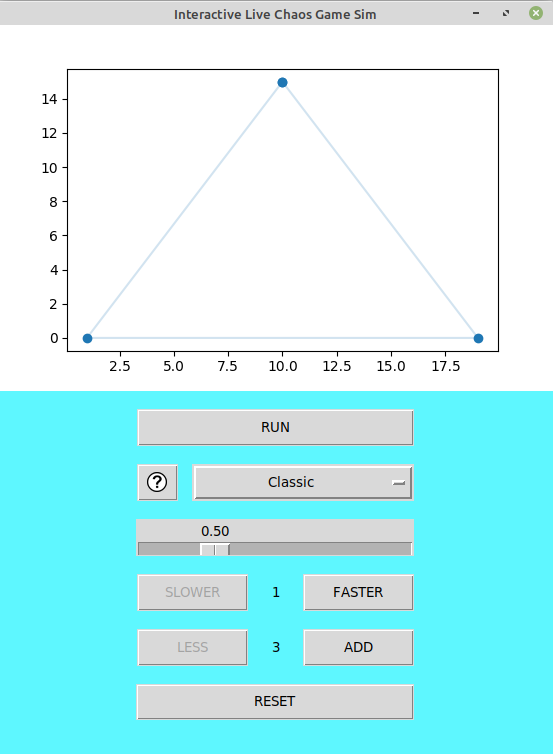
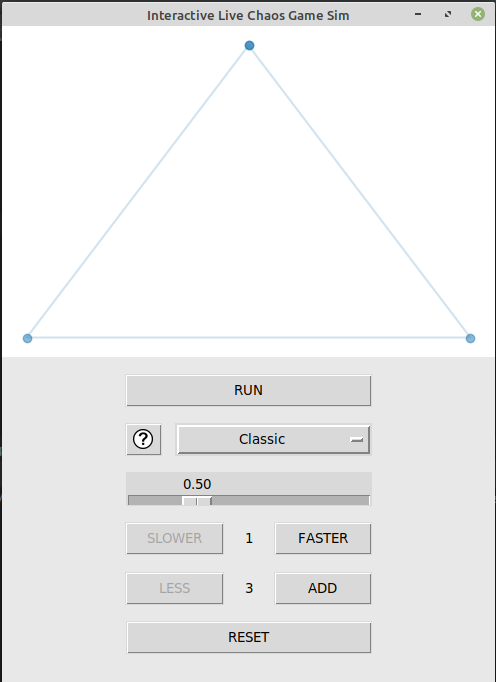
Polished with blitting

diff --git a/IChaosGame.py b/IChaosGame.py
@@ -10,22 +10,58 @@ import Rules as Rules
 
 class Controller:
     def __init__(self):
-        self.canvas = None
         self.simulation = Simulation()
         self.main_view = MainView(simulation=self.simulation, controller=self)
+        self.animation_reset = False
         self.figure, self.ax = self.main_view.initialize_figure()
-        self.anime = FuncAnimation(self.figure, self.animate_figure, interval=500)
+        self.anime = FuncAnimation(self.figure, self.animate_figure,
+                                   init_func=self.init_animate_figure, blit=True, interval=500)
         self.main_view.mainloop()
 
     def animate_figure(self, event):
+        chaos_point_cords = self.simulation.chaos_points.get_point_cords()
+        shape_cords = self.simulation.shape.get_point_cords()
+        if self.animation_reset >= 100:
+            self.shape_outline = self.ax.plot(*shape_cords, alpha=0.2)
+            self.shape_points = self.ax.scatter(*shape_cords, alpha=0.5)
+            self.scat = self.ax.scatter(*chaos_point_cords, s=(500/((len(chaos_point_cords[0]) // 3) + 1)))
+            self.animation_reset = 0
+
+        delta_chaos_point_cords = []
         for i in range(self.simulation.speed):
             self.simulation.iterate()
+            try:
+                new_point = (chaos_point_cords[0][-1],
+                             chaos_point_cords[1][-1])
+            except IndexError:
+                new_point = False
+            if new_point:
+                delta_chaos_point_cords.append(new_point)
+        if delta_chaos_point_cords:
+            updated_list_of_cords = list(self.scat.get_offsets()) + delta_chaos_point_cords
+            self.scat.set_offsets(updated_list_of_cords)
+            self.scat.set_sizes([(500/((len(updated_list_of_cords) // 3) + 1))
+                                 for _ in range(len(updated_list_of_cords))])
+
+        try:
+            self.ax.set_xlim(min(chaos_point_cords[0] + shape_cords[0]) - 1, max(chaos_point_cords[0] + shape_cords[0]) + 1)
+            self.ax.set_ylim(min(chaos_point_cords[1] + shape_cords[1]) - 1, max(chaos_point_cords[1] + shape_cords[1]) + 1)
+        except ValueError:
+            pass
+
+        self.artists = (self.shape_outline[0], self.shape_points, self.scat)
+        return self.artists
+
+
+    def init_animate_figure(self):
         self.ax.clear()
         shape_cords = self.simulation.shape.get_point_cords()
-        self.ax.plot(*shape_cords, alpha=0.2)
-        self.ax.scatter(*shape_cords)
+        self.shape_outline = self.ax.plot(*shape_cords, alpha=0.2)
+        self.shape_points = self.ax.scatter(*shape_cords, alpha=0.5)
         chaos_point_cords = self.simulation.chaos_points.get_point_cords()
-        self.ax.scatter(*chaos_point_cords, s=500/((len(chaos_point_cords[0]) // 3) + 1))
+        self.scat = self.ax.scatter(*chaos_point_cords, s=(500/((len(chaos_point_cords[0]) // 3) + 1)))
+        self.artists = (self.shape_outline[0], self.shape_points, self.scat)
+        return self.artists
 
     def change_speed(self, speed: int):
         speed_equivalent = [500, 250, 100, 10, 1]
@@ -46,10 +82,12 @@ class Controller:
     def add_shape_point(self):
         self.simulation.add_shape_point()
         self.update_shape()
+        self.animation_reset = 100
 
     def less_shape_point(self):
         self.simulation.less_shape_point()
         self.update_shape()
+        self.animation_reset = 100
 
     def update_shape(self):
         self.main_view.update_shape_label_text()
@@ -59,10 +97,12 @@ class Controller:
         rule = self.main_view.controls_view.rule
         rule_no = self.main_view.controls_view.rules_name_list.index(rule.get())
         self.change_rule(rule_no)
+        self.animation_reset = 100
 
     def distance_trace_callback(self, *args, **kwargs):
         distance = self.main_view.controls_view.distance.get()
         self.simulation.change_jump_distance(distance)
+        self.animation_reset = 100
 
     def change_rule(self, rule_no: int):
         self.simulation.change_rule(rule_no)
@@ -80,6 +120,7 @@ class Controller:
         self.update_speed()
         self.update_shape()
         self.main_view.update_run_button_text()
+        self.animation_reset = 100
 
 
 class Points:
@@ -274,7 +315,7 @@ class MainView(tk.Tk):
         self.controller = controller
 
         self.title('Interactive Live Chaos Game Sim')
-        self.configure(bg='#5ef7ff')
+        self.configure(bg='#E8E8E8')
         self.geometry("700x700")
 
         self.graph_view = GraphView(self.simulation, self.controller)
@@ -328,14 +369,17 @@ class GraphView(tk.Frame):
         tk.Frame.__init__(self, *args, **kwargs)
         self.simulation = simulation
         self.controller = controller
-        self.configure(bg='#5ef7ff')
+        self.configure(bg='#E8E8E8')
 
     def initialize_figure(self):
         figure = plt.figure()
-        ax1 = figure.add_subplot(1, 1, 1)
+        ax1 = figure.add_axes([0, 0, 1, 1])
+        ax1.axes.xaxis.set_visible(False)
+        ax1.axes.yaxis.set_visible(False)
+        ax1.set_frame_on(False)
         canvas = FigureCanvasTkAgg(figure, master=self)
-        graph_canvas = canvas.get_tk_widget()
-        graph_canvas.pack()
+        self.graph_canvas = canvas.get_tk_widget()
+        self.graph_canvas.pack()
         return figure, ax1
 
 
@@ -344,7 +388,7 @@ class ControlsView(tk.Frame):
         tk.Frame.__init__(self, *args, **kwargs)
         self.simulation = simulation
         self.controller = controller
-        self.configure(bg='#5ef7ff')
+        self.configure(bg='#E8E8E8')
 
         self.run_button_text_var = tk.StringVar()
         self.run_button_text_var.set("RUN")
@@ -383,7 +427,7 @@ class ControlsView(tk.Frame):
         self.speed_label_text_var.set(self.simulation.speed_no + 1)
         self.speed_label = tk.Label(master=self,
                                     textvariable=self.speed_label_text_var,
-                                    bg='#5ef7ff')
+                                    bg='#E8E8E8')
         self.faster_button = tk.Button(master=self,
                                        text="FASTER",
                                        command=self.controller.increase_speed)
@@ -399,7 +443,7 @@ class ControlsView(tk.Frame):
         self.shape_label_text_var.set(self.simulation.shape.number_of_points)
         self.shape_label = tk.Label(master=self,
                                     textvariable=self.shape_label_text_var,
-                                    bg='#5ef7ff')
+                                    bg='#E8E8E8')
         self.add_button = tk.Button(master=self,
                                     text="ADD",
                                     command=self.controller.add_shape_point)
@@ -426,9 +470,9 @@ class RulesHelp(tk.Toplevel):
         self.resizable(False, False)
         self.geometry('510x300')
 
-        self.canvas = tk.Canvas(master=self, bg='#5ef7ff')
+        self.canvas = tk.Canvas(master=self, bg='#E8E8E8')
 
-        self.frame = tk.Frame(master=self.canvas, bg='#5ef7ff')
+        self.frame = tk.Frame(master=self.canvas, bg='#E8E8E8')
 
         self.scrollbar = tk.Scrollbar(master=self, orient='vertical', command=self.canvas.yview)
         self.canvas.configure(yscrollcommand=self.scrollbar.set)
@@ -448,7 +492,7 @@ class RulesHelp(tk.Toplevel):
                          justify='left',
                          anchor='w',
                          wraplength=480,
-                         bg='#5ef7ff',
+                         bg='#E8E8E8',
                          font='Helvetica 12 bold',
                          text='        In mathematics, the term chaos game originally referred '
                               "to a method of creating a fractal, "
@@ -466,7 +510,7 @@ class RulesHelp(tk.Toplevel):
                                   justify='left',
                                   anchor='w',
                                   wraplength=480,
-                                  bg='#5ef7ff',
+                                  bg='#E8E8E8',
                                   font='Helvetica 12 bold',
                                   text=f"{rule(getinfo='name')} \n     {rule(getinfo='description')}")
             rule_label.pack(fill='both', padx=5, pady=10)
